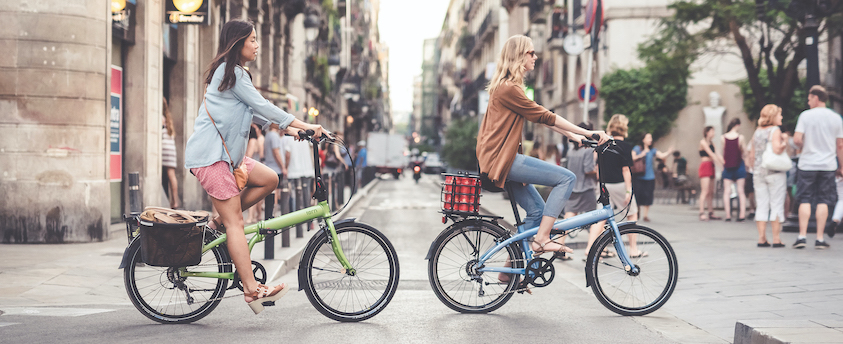
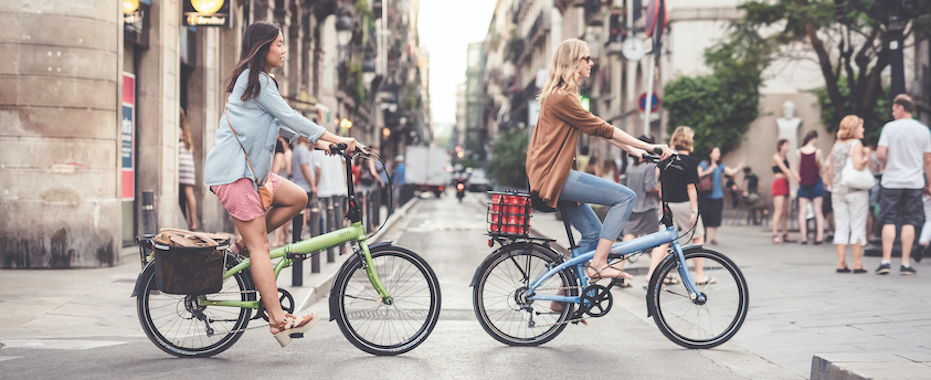
Fixed mobile landscape responsiveness

diff --git a/index.html b/index.html
@@ -99,7 +99,7 @@
 
   <!-- SECTION (SALES)  -->
   <div id="sales" class="row m-0">
-    <div id="sales-left" class="col-xs-12 col-lg-6 px-0">
+    <div id="sales-left" class="col-xs-12 col-md-6 px-0">
       <div id="img-sales">
         <div class="dark-overlay d-flex align-items-center">
           <div id="sales-left-content" class="p-5 text-white">
@@ -116,13 +116,13 @@
         </div>
       </div>
     </div>
-    <div id="sales-right" class="col-xs-12 col-lg-6 p-0 d-flex align-items-center">
-      <div id="sales-right-content" class="text-center mx-3">
+    <div id="sales-right" class="col-xs-12 col-md-6 p-0 d-flex align-items-center">
+      <div id="sales-right-content" class="m-auto text-center mx-3">
         <i class="box-icon fas fa-bicycle fa-3x mb-3"></i>
         <h1 class="box-heading text-center mb-3">Our Bicycles</h1>
-        <h4 class="font-italic text-center mb-5">We carry both <span>electric</span> and
-          <span>pedal</span>
-          bicycles in a wide range of both styles and sizes to meet your needs.</h4>
+        <h4 class="font-italic text-center d-block">We carry both <span>electric</span> and <span>pedal</span>
+          bicycles in a wide range</h4>
+        <h4 class="font-italic text-center mb-5">of both styles and sizes to meet your needs.</h4>
         <h3 class="text-center pb-2 my-3">BRANDS</h3>
         <div class=" m-auto text-center">
           <h4 class="d-inline-block px-3">Electra</h4>
@@ -142,7 +142,7 @@
 
   <!-- SECTION (RENTALS) -->
   <div id="rentals" class="row m-0">
-    <div id="rentals-right" class="col-xs-12 col-lg-6 order-md-12 p-0">
+    <div id="rentals-right" class="col-xs-12 col-md-6 order-md-12 p-0">
       <div id="img-rentals">
         <div class="dark-overlay d-flex align-items-center">
           <div id="rentals-right-content" class="p-5 text-white">
@@ -160,7 +160,7 @@
         </div>
       </div>
     </div>
-    <div id="rentals-left" class="col-xs-12 col-lg-6 p-0 d-flex align-items-center bg-main-color text-white">
+    <div id="rentals-left" class="col-xs-12 col-md-6 p-0 d-flex align-items-center bg-main-color text-white">
       <div id="rentals-left-content" class="m-auto w-75 text-center">
         <i class="box-icon fas fa-handshake fa-3x"></i>
         <h1 class="box-heading">Rental Rates</h1>
@@ -198,7 +198,7 @@
 
   <!-- SECTION (SERVICE) -->
   <div id="service" class="row m-0">
-    <div id="service-left" class="col-xs-12 col-lg-6 px-0">
+    <div id="service-left" class="col-xs-12 col-md-6 px-0">
       <div id="img-service">
         <div class="dark-overlay d-flex align-items-center">
           <div id="service-left-content" class="p-4 text-white">
@@ -215,7 +215,7 @@
         </div>
       </div>
     </div>
-    <div id="service-right" class="col-xs-12 col-lg-6 p-0 d-flex align-items-center">
+    <div id="service-right" class="col-xs-12 col-md-6 p-0 d-flex align-items-center">
       <div id="service-right-content" class="m-auto text-center mx-2">
         <i class="box-icon fas fa-tools fa-3x mb-3"></i>
         <h1 class="box-heading text-center mb-3">Service & Repair</h1>

diff --git a/assets/css/mobile.css b/assets/css/mobile.css
@@ -24,6 +24,107 @@
   background-position: center;
 }
 
+/* ================================== */
+/* LANDSCAPE PHONES */
+
+@media (max-height: 580px) {
+  #logo-banner-main {
+    height: 40vh;
+  }
+
+  #showcase {
+    height: 85vh;
+  }
+
+  #showcase .showcase-img {
+    height: 85vh;
+  }
+
+  #showcase #showcase-item-1 {
+    background: url('../img/showcase-1-landscape.jpg');
+    background-position: center;
+  }
+
+  #showcase #showcase-item-2 {
+    background: url('../img/showcase-2-landscape.jpg');
+    background-position: center;
+  }
+
+  #showcase #showcase-item-3 {
+    background: url('../img/showcase-3-landscape.jpg');
+    background-position: center;
+  }
+
+  #showcase #showcase-item-4 {
+    background: url('../img/showcase-4-landscape.jpg');
+    background-position: center;
+  }
+
+  #showcase #showcase-item-5 {
+    background: url('../img/showcase-5-landscape.jpg');
+    background-position: center;
+  }
+
+  .banner-content h1 {
+    font-size: 1.5rem;
+  }
+
+  #sales-left,
+  #sales-right,
+  #rentals-left,
+  #rentals-right,
+  #service-left,
+  #service-right {
+    height: 100vh;
+  }
+
+  #sales-left-content h1,
+  #sales-right-content h1,
+  #rentals-right-content h1,
+  #service-left-content h1,
+  #service-right-content h1 {
+    font-size: 1.5rem !important;
+  }
+
+  #sales-right-content h4,
+  #service-right-content h4,
+  #rentals-left-content h4 {
+    font-size: 1rem !important;
+  }
+
+  #sales-right-content h3 {
+    font-size: 1rem !important;
+  }
+
+  #rentals-left-content h2 {
+    font-size: 1.5rem !important;
+  }
+
+  #rentals-left-content hr {
+    margin-top: 1px;
+  }
+
+  #img-rentals {
+    height: 100% !important;
+  }
+
+  .box-icon {
+    font-size: 2.5rem;
+  }
+
+  #about-ebikes {
+    height: 100vh;
+  }
+
+  #footer-content {
+    height: 100%;
+  }
+
+  #footer-col-middle {
+    min-width: 25%;
+  }
+}
+
 @media (max-width: 500px) {
   #nav-main .logo {
     font-size: 1.8rem;

diff --git a/assets/css/style.css b/assets/css/style.css
@@ -154,103 +154,6 @@
   width: 100%;
 }
 
-/* ================================== */
-/* LANDSCAPE PHONES */
-
-@media (max-height: 580px) {
-  #logo-banner-main {
-    height: 40vh;
-  }
-
-  #showcase {
-    height: 85vh;
-  }
-
-  #showcase .showcase-img {
-    height: 85vh;
-  }
-
-  #showcase #showcase-item-1 {
-    background: url('../img/showcase-1-landscape.jpg');
-    background-position: center;
-  }
-
-  #showcase #showcase-item-2 {
-    background: url('../img/showcase-2-landscape.jpg');
-    background-position: center;
-  }
-
-  #showcase #showcase-item-3 {
-    background: url('../img/showcase-3-landscape.jpg');
-    background-position: center;
-  }
-
-  #showcase #showcase-item-4 {
-    background: url('../img/showcase-4-landscape.jpg');
-    background-position: center;
-  }
-
-  #showcase #showcase-item-5 {
-    background: url('../img/showcase-5-landscape.jpg');
-    background-position: center;
-  }
-
-  #sales-left,
-  #sales-right,
-  #rentals-left,
-  #rentals-right,
-  #service-left,
-  #service-right {
-    height: 100vh;
-  }
-
-  #sales-left-content h1,
-  #sales-right-content h1,
-  #rentals-right-content h1,
-  #service-left-content h1,
-  #service-right-content h1 {
-    font-size: 1.5rem !important;
-  }
-
-  #sales-right-content h4,
-  #service-right-content h4,
-  #rentals-left-content h4 {
-    font-size: 1rem !important;
-  }
-
-  #sales-right-content h3 {
-    font-size: 1rem !important;
-  }
-
-  #rentals-left-content h2 {
-    font-size: 1.5rem !important;
-  }
-
-  #rentals-left-content hr {
-    margin-top: 1px;
-  }
-
-  #img-rentals {
-    height: 100% !important;
-  }
-
-  .box-icon {
-    font-size: 2.5rem;
-  }
-
-  #about-ebikes {
-    height: 100vh;
-  }
-
-  #footer-content {
-    height: 100%;
-  }
-
-  #footer-col-middle {
-    min-width: 25%;
-  }
-}
-
 @media (min-width: 1441px) {
   #showcase #showcase-item-2 {
     background: url('../img/showcase-2-xxl.jpg');
